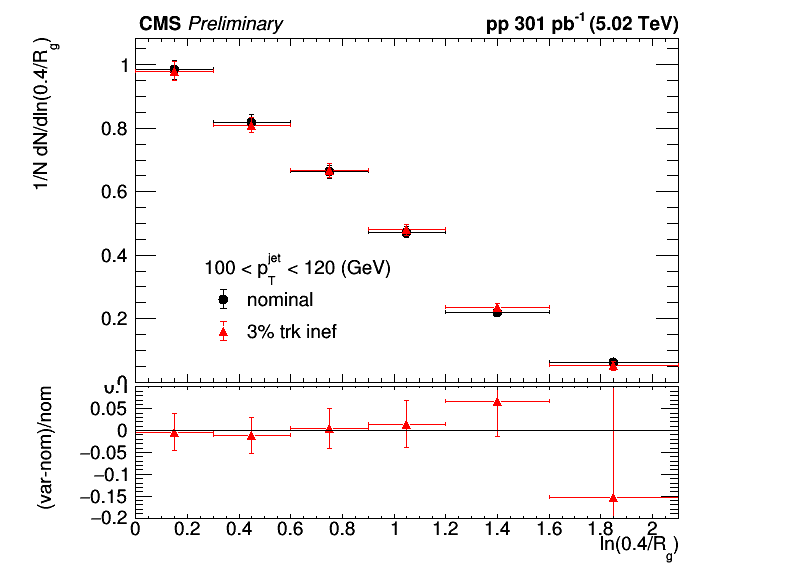
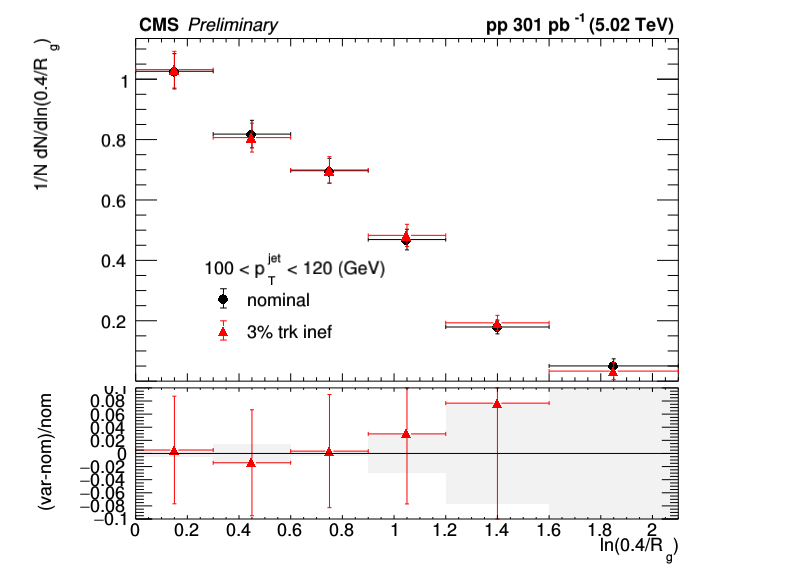
trk inef unc for b jets

diff --git a/myMacros/C106X/uncertanties/trk_inef_unc.C b/myMacros/C106X/uncertanties/trk_inef_unc.C
@@ -37,7 +37,9 @@ void trk_inef_unc(TString observable="rg")
     std::vector<TPad *> bottom_pads = {pad11, pad12, pad13};
     std::vector<TPad *> top_pads = {pad21, pad22, pad23};
     
-    TFile *fout = new TFile("./histos/"+observable+"_trk_inef_XXT.root", "recreate");
+    TString fout_name = "./histos/"+observable+"_trk_inef_XXT.root";
+    std::cout << "fout: " << fout_name << std::endl;
+    TFile *fout = new TFile(fout_name, "recreate");
     
     for (int ibin_pt = 1; ibin_pt <= nbins_pt; ibin_pt++) {
         if (ibin_pt!=2) continue;
@@ -115,9 +117,9 @@ void trk_inef_unc(TString observable="rg")
         h_inef_unc_rel->Divide(h_nom_1d);
         h_inef_unc_rel->GetYaxis()->SetTitle("(var-nom)/nom");
         h_inef_unc_rel->GetYaxis()->SetTitleOffset(2);
-        if (observable=="rg") h_inef_unc_rel->GetYaxis()->SetRangeUser(-0.2, 0.1);
-        else if (observable=="zg") h_inef_unc_rel->GetYaxis()->SetRangeUser(-0.1, 0.1);
-        else if (observable=="zpt") h_inef_unc_rel->GetYaxis()->SetRangeUser(-0.25, 0.1);
+        if (observable=="rg") h_inef_unc_rel->GetYaxis()->SetRangeUser(-0.1, 0.1);
+        else if (observable=="zg") h_inef_unc_rel->GetYaxis()->SetRangeUser(-0.02, 0.02);
+        else if (observable=="zpt") h_inef_unc_rel->GetYaxis()->SetRangeUser(-0.1, 0.1);
         h_inef_unc_rel->Write();
 
         bottom_pads[ipad]->cd();
@@ -128,6 +130,19 @@ void trk_inef_unc(TString observable="rg")
         
         // h_inef_unc->Draw("hist same");
         h_inef_unc_rel->Draw("pe1");
+
+        TH1D *h_band = (TH1D *) h_inef_unc_rel->Clone("h_band");
+        h_band->Reset();
+        for (int ibin_x=1; ibin_x<=h_inef_unc_rel->GetNbinsX(); ibin_x++) {
+            double maxUnc = h_inef_unc_rel->GetBinContent(ibin_x);
+            h_band->SetBinContent(ibin_x, 0.);
+            h_band->SetBinError(ibin_x, maxUnc);
+        }
+
+        h_band->SetMarkerSize(0);
+        h_band->SetFillStyle(1001);
+        h_band->SetFillColorAlpha(kBlack, 0.05);
+        h_band->Draw("e2 same");
 
         TLine *line = new TLine(h_inef_unc->GetXaxis()->GetBinLowEdge(ibin_x_min), 0, h_inef_unc->GetXaxis()->GetBinUpEdge(ibin_x_max), 0);
         line->Draw();
